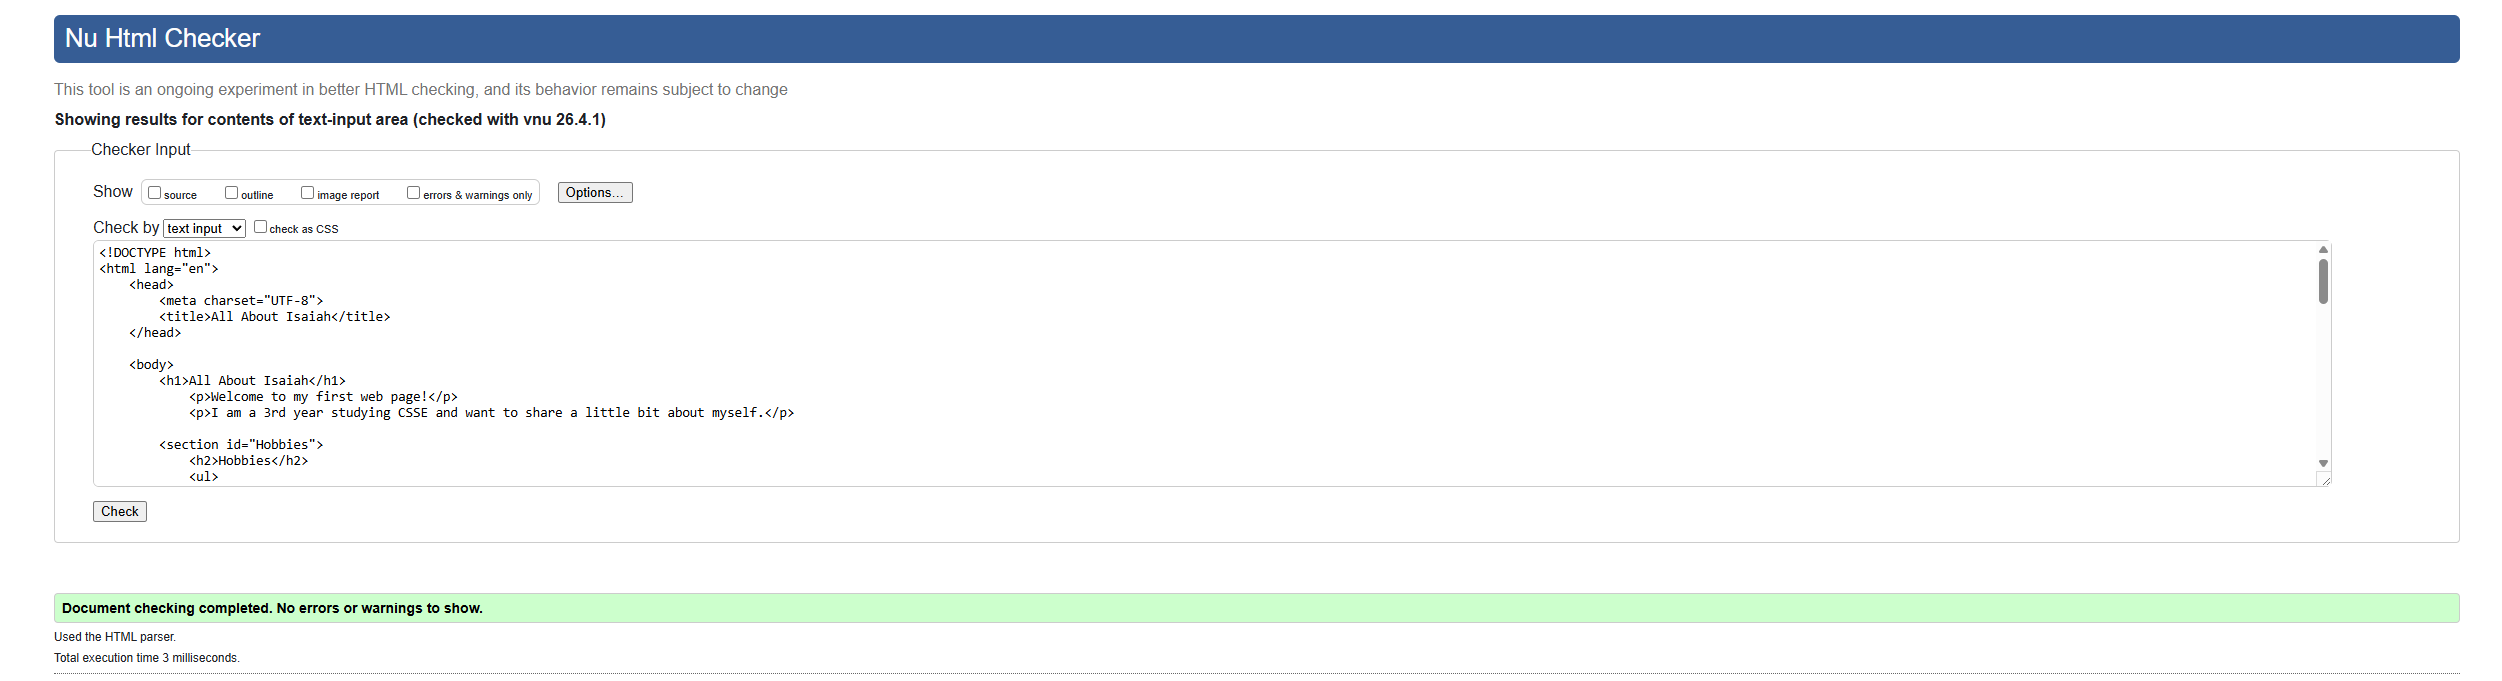
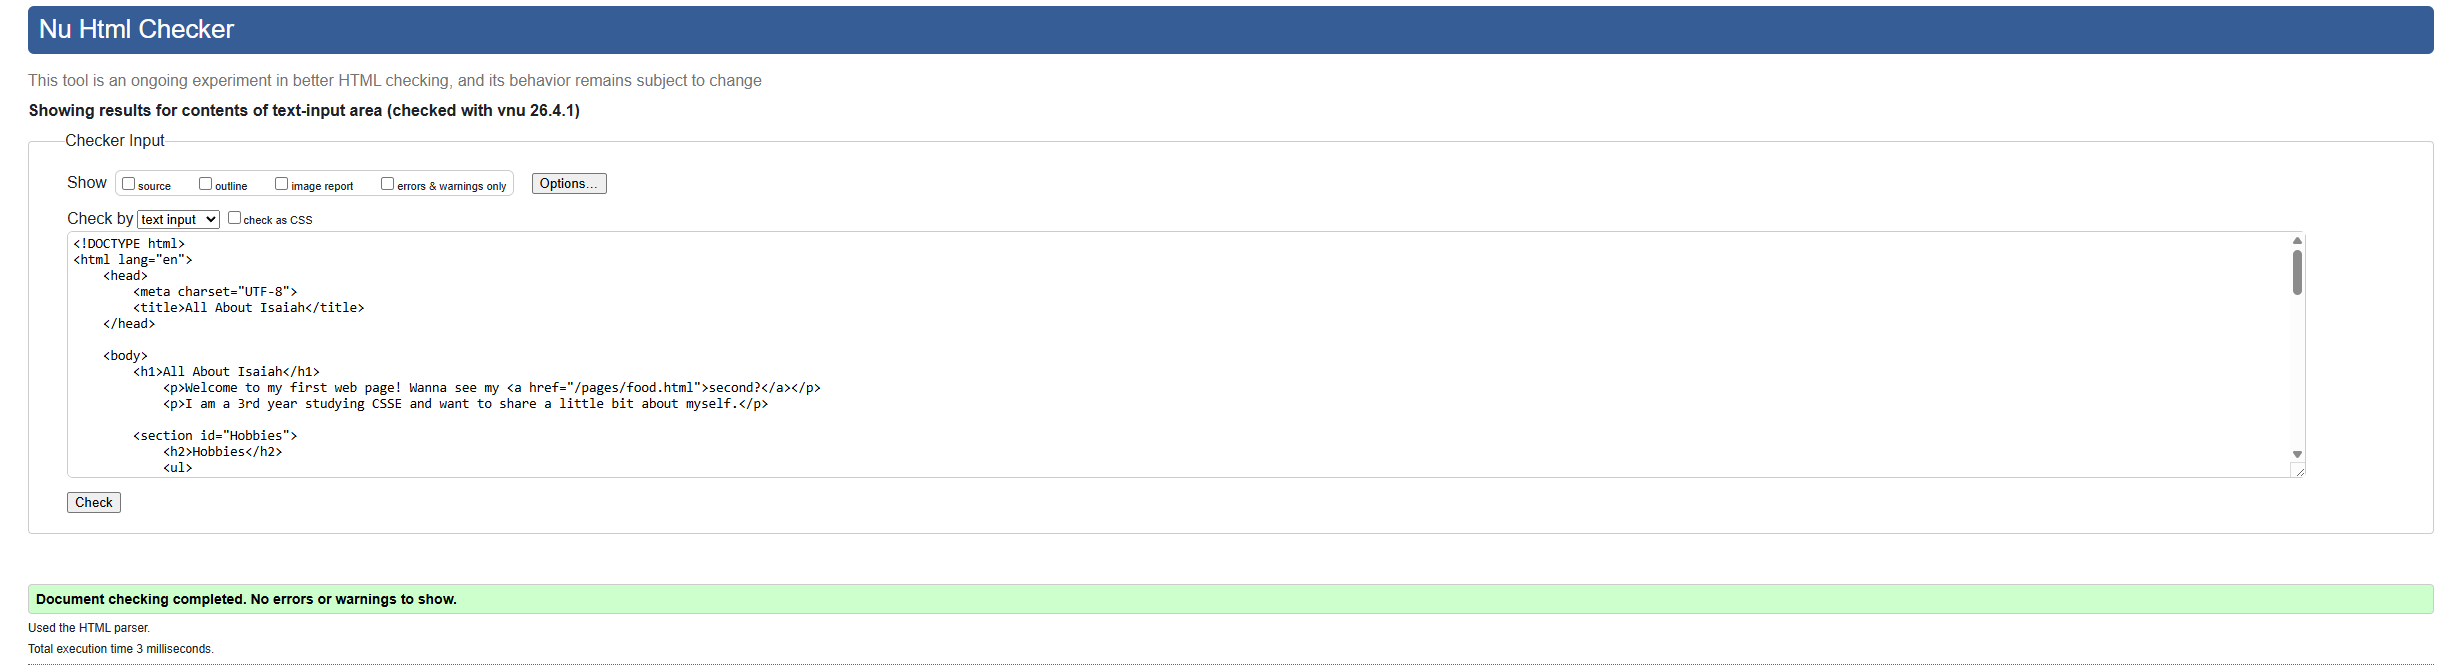
Second page

diff --git a/pages/food.html b/pages/food.html
@@ -1,0 +1,14 @@
+<!DOCTYPE html>
+<html lang="en">
+    <head>
+        <meta charset="UTF-8">
+        <title>All About Isaiah</title>
+    </head>
+
+    <body>
+        <p>Here is a recipe I really like for Malasadas.</p>
+        <p><a href="https://www.favfamilyrecipes.com/malasadas/#wprm-recipe-container-34164">Malasada Recipe</a></p>
+        <img src="https://www.favfamilyrecipes.com/wp-content/uploads/2023/08/malasadas-with-sugar-400x400.jpg" alt="Malasadas" width="300">
+        <p><a href="../index.html"> Go Back</a></p>
+    </body>
+</html>

diff --git a/index.html b/index.html
@@ -7,7 +7,7 @@
 
     <body>
         <h1>All About Isaiah</h1>
-            <p>Welcome to my first web page!</p>
+            <p>Welcome to my first web page! Wanna see my <a href="/pages/food.html">second?</a></p>
             <p>I am a 3rd year studying CSSE and want to share a little bit about myself.</p>
 
         <section id="Hobbies">
